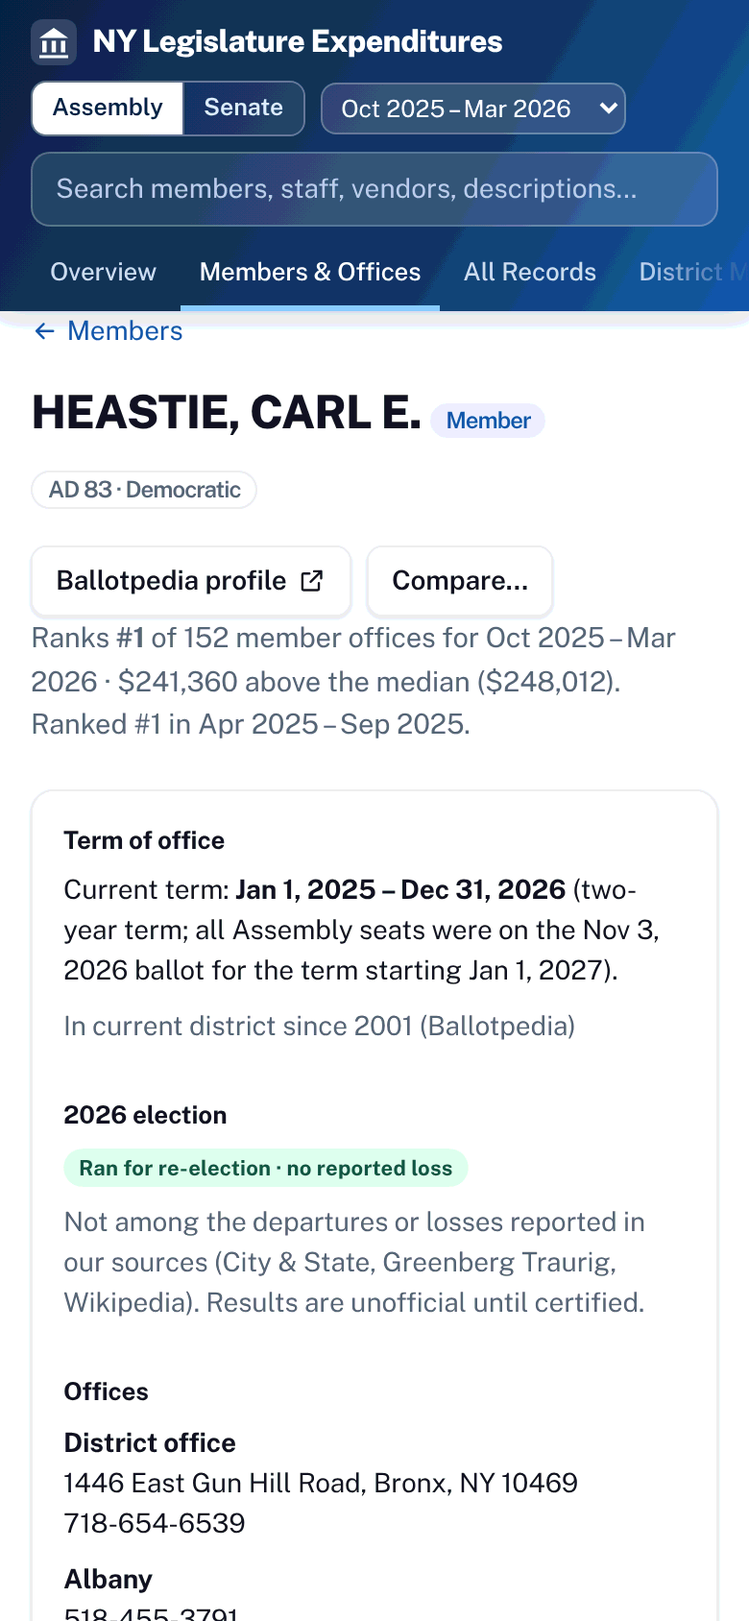
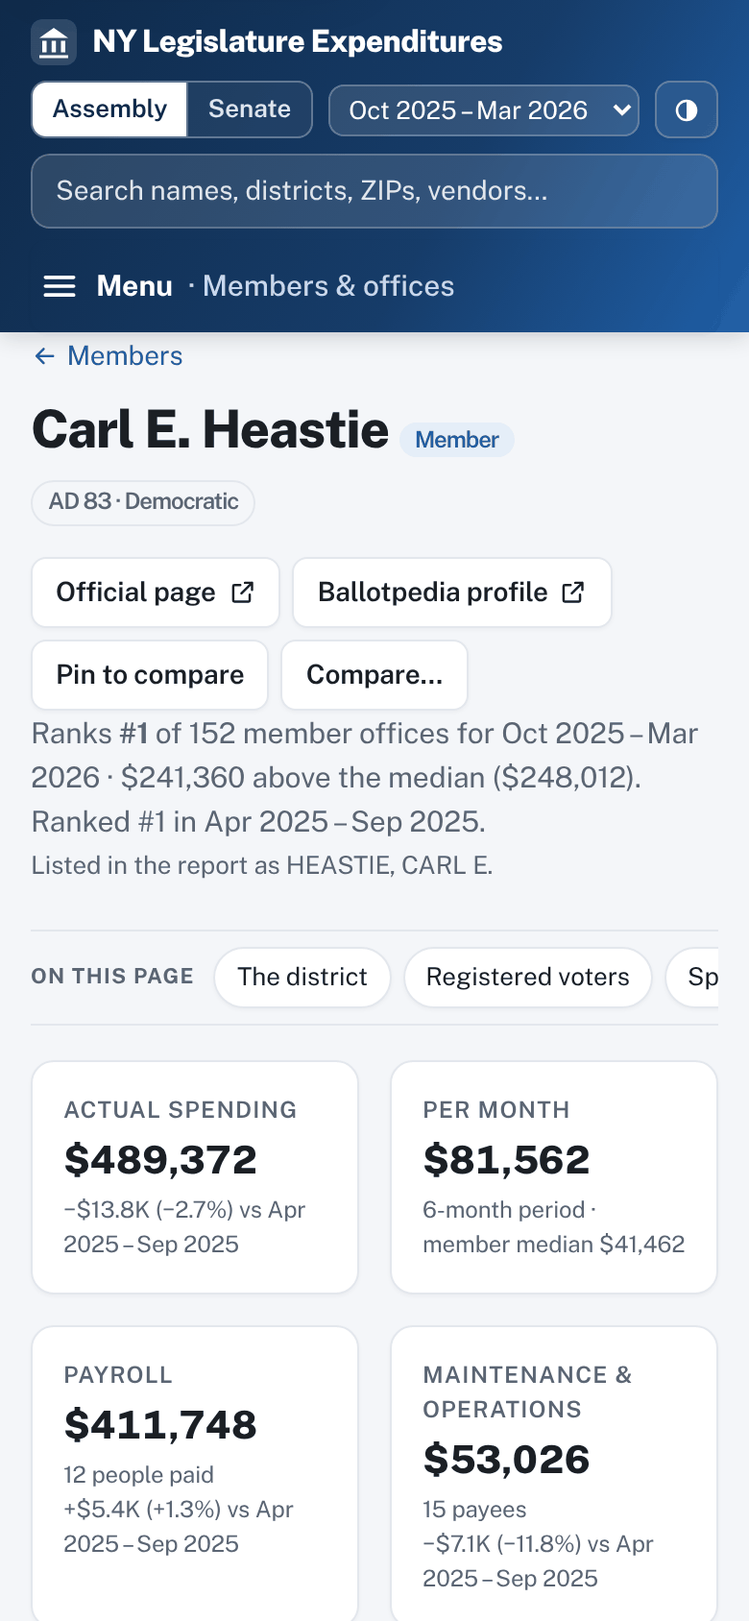
Design pass: honest charts, clearer tables, calmer layout, refreshed README visuals
- Fix bar lists that rendered empty (inline fill ignored its width)
- Make column-chart heights proportional; unrotated year labels
- Row headers styled as names; scorecard index moved next to the member
- Phones: members list shows name, total and change; one search box on overview
- Home: money lists first, then a 'Budgets, seats and the record over time' section
- Readable member names in lists and headings, report spelling kept under the heading
- Stat rows instead of cards inside cards; hairline card headers; one type scale
- Dark-mode button contrast; placeholder contrast; footer links on their own lines
- New banner and social preview in the site's typeface; fresh screenshots, scorecard added

Claude-Session: https://claude.ai/code/session_012BxnzWKB5kpecTXDzc2tZK

diff --git a/assets/styles.css b/assets/styles.css
@@ -205,9 +205,9 @@ svg.map path.district.dim { stroke: var(--border); }
 
 :root { --seq-0: #e3f1ee; --seq-1: #b2dacf; --seq-2: #72baa9; --seq-3: #33907d; --seq-4: #0d5c4f;
         --map-none: #c4c9cf; --div-0: #b35806; --div-1: #f1a340; --div-2: #ececec; --div-3: #998ec3; --div-4: #542788; }
-@media (prefers-color-scheme: dark) { :root:not([data-theme="light"]) { --seq-0: #1d3a35; --seq-1: #24584e; --seq-2: #2f7d6c; --seq-3: #4fae97; --seq-4: #8fdcc6;
+@media (prefers-color-scheme: dark) { :root:not([data-theme="light"]) { --seq-0: #2a4a44; --seq-1: #24584e; --seq-2: #2f7d6c; --seq-3: #4fae97; --seq-4: #8fdcc6;
           --map-none: #6b7380; --div-0: #e08a3c; --div-1: #9a6a3a; --div-2: #3a3f47; --div-3: #7c72b0; --div-4: #b3a6ec; } }
-:root[data-theme="dark"] { --seq-0: #1d3a35; --seq-1: #24584e; --seq-2: #2f7d6c; --seq-3: #4fae97; --seq-4: #8fdcc6;
+:root[data-theme="dark"] { --seq-0: #2a4a44; --seq-1: #24584e; --seq-2: #2f7d6c; --seq-3: #4fae97; --seq-4: #8fdcc6;
           --map-none: #6b7380; --div-0: #e08a3c; --div-1: #9a6a3a; --div-2: #3a3f47; --div-3: #7c72b0; --div-4: #b3a6ec; }
 
 /* District profile */
@@ -216,7 +216,7 @@ svg.map path.district.dim { stroke: var(--border); }
 .dnav { display: flex; gap: 8px; align-items: center; flex-wrap: wrap; margin-bottom: 16px; }
 .dnav select { width: auto; max-width: 260px; }
 .map-layout > div > .card + .card { margin-top: 16px; }
-svg.map path.district.focus { stroke: var(--text); stroke-width: 2.5; }
+svg.map path.district.focus { stroke: var(--text); stroke-width: 1.75; }
 svg.map .dlabel { font-size: 11px; fill: var(--text); text-anchor: middle; dominant-baseline: middle; pointer-events: none; paint-order: stroke; stroke: var(--surface); stroke-width: 3px; }
 svg.map .dlabel.focus { font-size: 15px; font-weight: 700; }
 svg.locator { max-width: 260px; margin: 0 auto; }
@@ -293,7 +293,6 @@ h2 { font-size: 16px; font-weight: 700; letter-spacing: -0.01em; }
 .chamber-switch button.on { background: #fff; color: var(--navy); }
 .chamber-switch button:hover:not(.on) { color: #fff; background: rgba(255,255,255,.08); }
 .site-header .global-search input { background: rgba(255,255,255,.12); border-color: rgba(255,255,255,.22); color: #fff; padding: 10px 14px; border-radius: 10px; }
-.site-header .global-search input::placeholder { color: #b9cbe3; }
 .site-header .global-search input:focus { background: rgba(255,255,255,.18); outline: 2px solid rgba(255,255,255,.6); }
 .tabs { gap: 2px; padding-bottom: 0; }
 .tabs a { color: #c7d7ee; border-bottom: 3px solid transparent; padding: 10px 12px; font-size: 14px; }
@@ -322,11 +321,10 @@ h2 { font-size: 16px; font-weight: 700; letter-spacing: -0.01em; }
 
 /* Bars */
 .bars .track { height: 8px; border-radius: 999px; }
-.bars .fill { background: linear-gradient(90deg, var(--bar), #4f93dc); border-radius: 999px; }
+.bars .fill { display: block; background: var(--bar); border-radius: 999px; }
 .bars .fill.alt { background: var(--bar-alt); }
 .bars li { padding: 6px 0; }
-.cols .colbar { background: linear-gradient(180deg, #4f93dc, var(--bar)); border-radius: 6px 6px 2px 2px; }
-.cols .col:hover .colbar { filter: brightness(1.08); }
+.cols .colbar { background: var(--bar); border-radius: 3px 3px 0 0; }
 
 /* Tables */
 .table-wrap { border-radius: var(--radius); box-shadow: var(--shadow); }
@@ -338,7 +336,7 @@ td, th { padding: 9px 12px; }
 /* Controls */
 input[type=search], input[type=number], select { border-radius: 8px; background: var(--surface); }
 button, .btn { border-radius: 8px; font-weight: 600; box-shadow: var(--shadow); }
-button.primary { background: linear-gradient(180deg, #2a6cbb, var(--navy-2)); }
+button.primary { background: var(--accent); }
 .chip { font-weight: 600; }
 .filters { background: var(--surface); border: 1px solid var(--border); border-radius: var(--radius); padding: 14px; box-shadow: var(--shadow); }
 .callout { border: 1px solid color-mix(in srgb, var(--accent) 30%, var(--border)); border-radius: var(--radius); padding: 12px 16px; }
@@ -426,9 +424,9 @@ td .chip + .echip, td .echip { margin-top: 3px; }
   .brand-title { font-size: 16px; gap: 8px; }
   .brand-mark { width: 24px; height: 24px; }
   .brand-controls { gap: 8px; margin-top: 8px; flex-wrap: nowrap; }
-  .chamber-switch button { padding: 4px 10px; font-size: 12.5px; }
+  .chamber-switch button { padding: 4px 10px; font-size: 13px; }
   .pp-label { position: absolute; width: 1px; height: 1px; overflow: hidden; clip: rect(0 0 0 0); }
-  .period-pick select { font-size: 12.5px; padding: 4px 6px; }
+  .period-pick select { font-size: 13px; padding: 4px 6px; }
   .global-search { flex-basis: 100%; max-width: none; }
   .site-header .global-search input { padding: 8px 12px; font-size: 14px; }
   .tabs a { padding: 8px 10px; font-size: 13px; }
@@ -445,7 +443,7 @@ td .chip + .echip, td .echip { margin-top: 3px; }
 
 .hero { display: grid; grid-template-columns: minmax(0, 1fr) auto; column-gap: 32px; align-items: center; }
 .hero-text > :last-child { margin-bottom: 0; }
-.hero-map { align-self: center; display: flex; flex-direction: column; align-items: center; gap: 6px; color: var(--muted); font-size: 12.5px; text-decoration: none; }
+.hero-map { align-self: center; display: flex; flex-direction: column; align-items: center; gap: 6px; color: var(--muted); font-size: 13px; text-decoration: none; }
 .hero-map > svg { width: 300px; height: auto; display: block; }
 .hero-map path { stroke: var(--surface); stroke-width: .4; }
 .hero-map:hover { color: var(--accent); text-decoration: none; }
@@ -453,7 +451,7 @@ td .chip + .echip, td .echip { margin-top: 3px; }
 @media (max-width: 900px) { .hero { grid-template-columns: 1fr; } .hero-map { display: none; } }
 
 /* State Board result table on member pages */
-.mini-results { width: 100%; border-collapse: collapse; margin: 6px 0 4px; font-size: 13.5px; }
+.mini-results { width: 100%; border-collapse: collapse; margin: 6px 0 4px; font-size: 14px; }
 .mini-results td { padding: 5px 6px; border-bottom: 1px solid var(--border); vertical-align: top; }
 .mini-results tr:first-child td { font-weight: 600; }
 .mini-results tr.inc td { background: color-mix(in srgb, var(--accent) 7%, transparent); }
@@ -522,10 +520,10 @@ kbd { font: 600 12px/1 ui-monospace, SFMono-Regular, Menlo, monospace; padding: 
 .budget table th[scope=row] { text-transform: none; letter-spacing: 0; font-size: 14px; font-weight: 500; color: var(--text); position: static; background: none; white-space: normal; }
 .budget tr.total th, .budget tr.total td { border-top: 2px solid var(--border); }
 .budget td.share { min-width: 160px; }
-.budget td.share { display: flex; align-items: center; gap: 8px; }
+.budget td.share > .share-in { display: flex; align-items: center; gap: 8px; }
 .budget td.share .track { flex: 1; height: 8px; border-radius: 4px; background: var(--accent-soft); overflow: hidden; display: block; }
 .budget td.share .fill { display: block; height: 100%; background: var(--accent); border-radius: 4px; }
-.budget td.share span:last-child { min-width: 38px; text-align: right; font-variant-numeric: tabular-nums; }
+.budget td.share .share-in > span:last-child { min-width: 38px; text-align: right; font-variant-numeric: tabular-nums; }
 @media (forced-colors: active) { .cf-stack span, .budget .fill { forced-color-adjust: none; } }
 details.yeartable { margin-top: 10px; }
 details.yeartable > summary { cursor: pointer; color: var(--accent); font-weight: 600; font-size: 14px; padding: 4px 0; }
@@ -537,7 +535,7 @@ abbr[title] { text-decoration: underline dotted; cursor: help; }
 .statheads .statchamber { background: var(--surface); border: 1px solid var(--border); border-radius: 14px; padding: 16px 18px; box-shadow: var(--shadow); }
 .statchamber h2 { margin: 0; font-size: 20px; }
 .statgrid { display: grid; grid-template-columns: repeat(2, minmax(0, 1fr)); gap: 10px 18px; margin: 12px 0 0; }
-.statgrid dt { font-size: 12.5px; color: var(--muted); }
+.statgrid dt { font-size: 13px; color: var(--muted); }
 .statgrid dd { margin: 2px 0 0; font-weight: 700; font-size: 17px; font-variant-numeric: tabular-nums; }
 .card.stat table th[scope=row] { position: static; background: none; color: var(--text); font-size: 14px; text-transform: none; letter-spacing: 0; }
 .boxes { margin: 6px 0 12px; }
@@ -609,7 +607,7 @@ table.scorecard td { white-space: nowrap; }
 
 /* Vendors that also donate */
 .card.vd.own { border-left-width: 1px; box-shadow: var(--shadow), inset 0 0 0 1px color-mix(in srgb, var(--pR) 25%, transparent); }
-.card.vd h3.mini { font-size: 13.5px; margin: 0 0 6px; }
+.card.vd h3.mini { font-size: 14px; margin: 0 0 6px; }
 .card.vd .plainlist li { margin: 4px 0; }
 
 /* ---------- Main menu ---------- */
@@ -662,7 +660,7 @@ table.scorecard td { white-space: nowrap; }
 @media (max-width: 640px) { .cf-table th[scope=row] { min-width: 150px; } .cf-table td.cf-bar { min-width: 90px; width: auto; } }
 /* Tap targets: at least 24px tall for links that stand alone (WCAG 2.2 target size). */
 a.back, .chamber-name, a.range-name, a.chip, .card-head > a, .site-footer a, .legend a, p > a.btn, a.btn { min-height: 24px; display: inline-flex; align-items: center; }
-.site-footer a { min-height: 32px; }
+.site-footer a { min-height: 32px; display: flex; width: fit-content; }
 a.back { padding: 4px 0; }
 /* Small charts: no text below 11px. */
 .cols.small .colval, .cols.small .collabel { font-size: 11px; }
@@ -722,13 +720,13 @@ a.back { padding: 4px 0; }
 .sheet-grid { display: grid; grid-template-columns: repeat(2, minmax(0, 1fr)); gap: 18px 28px; }
 .sheet-grid section.wide { grid-column: 1 / -1; }
 .sheet-grid h2 { font-size: 15px; text-transform: uppercase; letter-spacing: .05em; border-bottom: 1px solid var(--border); padding-bottom: 4px; margin: 0 0 6px; }
-.sheet-table { width: 100%; border-collapse: collapse; font-size: 13.5px; }
+.sheet-table { width: 100%; border-collapse: collapse; font-size: 14px; }
 .sheet-table th, .sheet-table td { padding: 4px 0; border-bottom: 1px dotted var(--border); text-align: left; vertical-align: top; font-weight: 400; background: none; position: static; text-transform: none; letter-spacing: 0; color: var(--text); white-space: normal; }
 .sheet-table th[scope=row] { color: var(--muted); padding-right: 12px; width: 46%; }
 .sheet-table.money th[scope=row] { width: auto; color: var(--text); }
 .sheet-table .num { text-align: right; font-variant-numeric: tabular-nums; }
 .sheet-table thead th { font-size: 11px; text-transform: uppercase; color: var(--muted); }
-.sheet-foot { margin-top: 18px; border-top: 1px solid var(--border); padding-top: 8px; font-size: 11.5px; }
+.sheet-foot { margin-top: 18px; border-top: 1px solid var(--border); padding-top: 8px; font-size: 12px; }
 @media (max-width: 700px) { .sheet-grid { grid-template-columns: 1fr; } }
 @media print {
   .site-header, .site-footer, .mainnav, .noprint, .skip-link { display: none !important; }
@@ -741,7 +739,7 @@ a.back { padding: 4px 0; }
 }
 .cols.hist { gap: 6px; height: 160px; }
 .cols.hist .col.cur .colbar { background: var(--accent); }
-.cols.hist .collabel { font-size: 10.5px; white-space: nowrap; transform: rotate(-35deg); transform-origin: top center; margin-top: 6px; height: 26px; }
+.cols.hist .collabel { font-size: 11px; white-space: nowrap; transform: rotate(-35deg); transform-origin: top center; margin-top: 6px; height: 26px; }
 @media (max-width: 640px) { .cols.hist .colval { display: none; } .cols.hist { gap: 3px; } }
 .bh-table { width: 100%; }
 .bh-bars { width: 38%; min-width: 120px; }
@@ -825,7 +823,7 @@ section.card { scroll-margin-top: 140px; }
   .locator-card svg { max-height: 150px; }
   section.card { padding-left: 14px; padding-right: 14px; }
   .card-head { gap: 4px 10px; }
-  .card-head .summary { font-size: 12.5px; }
+  .card-head .summary { font-size: 13px; }
   .grid.kpis.small { gap: 8px; }
   .lede { font-size: 15px; }
   h1 { font-size: clamp(24px, 7vw, 30px); line-height: 1.15; }
@@ -983,3 +981,103 @@ th.csort-th .th-sort:focus-visible { outline: 2px solid var(--accent); outline-o
   .sh.many .sh-col.keep:not(.cur):first-child .sh-val { display: none; }
 }
 @media (forced-colors: active) { .sh-bar span { forced-color-adjust: none; } }
+
+
+/* ---------- Polish pass: honest charts, calmer surfaces, one rhythm ---------- */
+/* Column charts: value, plot, label on separate grid rows, so each bar's % height is a share of
+   the same plot height and bars stay proportional to their values. */
+.cols .col { display: grid; grid-template-rows: auto minmax(0, 1fr) auto; justify-items: center; align-items: end; row-gap: 4px; }
+.cols .col > .colval { grid-row: 1; }
+.cols .col > .colbar { grid-row: 2; align-self: end; }
+.cols .col > .collabel { grid-row: 3; }
+.cols .col:hover .colbar, .cols .col[data-tip]:hover .colbar { filter: none; background: var(--accent); }
+.cols.hist { height: 184px; gap: 6px; }
+.cols.hist .collabel { transform: none; height: auto; margin-top: 2px; font-size: 11px; line-height: 1.2; text-align: center; white-space: normal; }
+.cols.hist + p.summary { margin-top: 12px; }
+@media (max-width: 640px) {
+  .cols.hist { height: 150px; }
+  .cols.hist .collabel { white-space: nowrap; }
+  .cols.hist .col:first-child .collabel { justify-self: start; text-align: left; }
+  .cols.hist .col:last-child .collabel { justify-self: end; text-align: right; }
+}
+.bars .track { background: color-mix(in srgb, var(--accent-soft) 75%, var(--surface)); }
+
+/* Row headers read as the row's name, not as a column header */
+tbody th[scope=row] { position: static; background: none; text-transform: none; letter-spacing: 0; font-size: 14px; font-weight: 600; color: var(--text); white-space: normal; }
+
+/* Calmer surfaces: hairline paper cards; depth kept for the hero only */
+:root { --shadow: 0 1px 2px rgba(16, 24, 40, .04); }
+.card-head h2 { font-size: 17px; }
+.card > .card-head:first-child { padding-bottom: 10px; border-bottom: 1px solid var(--border); margin-bottom: 14px; }
+.grid > .span-all { grid-column: 1 / -1; }
+.section-title { font-size: 21px; font-weight: 800; letter-spacing: -0.015em; margin: 44px 0 14px; padding-top: 12px; border-top: 3px solid var(--text); text-wrap: balance; }
+.grid + .card, .card + .grid, .card + .card { margin-top: 16px; }
+.section-title + .card { margin-top: 0; }
+
+/* KPI tiles inside a card become a stat row instead of cards in a card */
+.card .grid.kpis { gap: 12px 0; margin: 4px 0 14px; }
+.card .grid.kpis > .kpi { border: 0; border-radius: 0; box-shadow: none; background: none; padding: 2px 16px; border-left: 1px solid var(--border); }
+.card .grid.kpis > .kpi:first-child { border-left: 0; padding-left: 0; }
+
+/* District page: the map card fills its column instead of leaving a hole */
+.map-layout { align-items: stretch; }
+.map-layout > .card:first-child, .map-layout > div:first-child > .card:only-child { display: flex; flex-direction: column; }
+.map-layout > .card:first-child > svg, .map-layout > .card:first-child > .map-wrap { margin-block: auto; }
+
+/* Scorecard: the index leads */
+th.sc-index, td.sc-index { background: color-mix(in srgb, var(--accent-soft) 55%, var(--surface)); }
+.sc-idx { display: inline-flex; align-items: center; gap: 8px; }
+.sc-idx strong { font-size: 15px; min-width: 2ch; text-align: right; }
+.scbar.wide { width: 56px; height: 6px; }
+td.sc-index .summary { display: block; font-size: 11px; margin-top: 2px; }
+details.weights { margin-bottom: 16px; }
+
+/* Members & offices: keep the pin on the name's first line; phones see name, total, change */
+td.namecell { min-width: 180px; }
+td.namecell .pin-mini { float: right; margin: -3px -6px 0 6px; }
+@media (max-width: 640px) {
+  table.units-table th:nth-child(1), table.units-table td:not(.empty):nth-child(1),
+  table.units-table th:nth-child(3), table.units-table td:not(.empty):nth-child(3),
+  table.units-table th:nth-child(4), table.units-table td:not(.empty):nth-child(4),
+  table.units-table th:nth-child(5), table.units-table td:not(.empty):nth-child(5),
+  table.units-table th:nth-child(6), table.units-table td:not(.empty):nth-child(6),
+  table.units-table th:nth-child(7), table.units-table td:not(.empty):nth-child(7),
+  table.units-table th:nth-child(9), table.units-table td:not(.empty):nth-child(9),
+  table.units-table th:nth-child(10), table.units-table td:not(.empty):nth-child(10),
+  table.units-table th:nth-child(11), table.units-table td:not(.empty):nth-child(11) { display: none; }
+  td.namecell { min-width: 0; }
+}
+
+/* Phones: one search box on the overview, breathing room under the header, bigger link targets */
+@media (max-width: 640px) {
+  body[data-view="overview"] .site-header .global-search { display: none; }
+  main { padding-top: 22px; }
+  .plainlist a, .bars .name a, .chg-list a, td a, .movers a { padding-block: 4px; }
+}
+.sheet-tools { margin-top: 8px; }
+
+/* Browser surfaces carry the palette */
+::selection { background: color-mix(in srgb, var(--accent) 28%, transparent); }
+a { text-underline-offset: 2px; }
+.table-wrap { scrollbar-color: color-mix(in srgb, var(--muted) 45%, transparent) transparent; }
+
+.grid > .card, .grid > section.card { margin-top: 0; }
+.cols .col { grid-template-columns: minmax(0, 1fr); }
+.cols .col > .colbar { justify-self: center; }
+.cols .col > .colval, .cols .col > .collabel { max-width: none; }
+@media (max-width: 640px) {
+  .cols.hist .collabel { justify-self: center; width: max-content; }
+  table.units-table .pin-mini { display: none; }
+  table.units-table { font-size: 13px; }
+}
+.map-layout > .card, .map-layout > div > .card:first-child { margin-top: 0; }
+@media (max-width: 640px) { .cols.hist .col:nth-last-child(2) .collabel, .cols.hist .col:nth-last-child(3) .collabel, .cols.hist .col:nth-last-child(4) .collabel { visibility: hidden; } }
+.as-filed { display: block; font-size: 13px; margin-top: 2px; }
+:root { --btn-primary: #1f5fa8; }
+@media (prefers-color-scheme: dark) { :root:not([data-theme="light"]) { --btn-primary: #2a69b5; } }
+:root[data-theme="dark"] { --btn-primary: #2a69b5; }
+button.primary, .pin-tray .btn.primary { background: var(--btn-primary); border-color: var(--btn-primary); color: #fff; }
+.card p.summary, .card p.pfline, .card > ul.plainlist { max-width: 70ch; }
+p.summary, p.lede, p.pfline, .hero-sub { text-wrap: pretty; }
+.site-header .global-search input::placeholder { color: #eef3fa; opacity: .92; }
+.card .table-wrap { box-shadow: none; }

diff --git a/assets/app.js b/assets/app.js
@@ -1368,11 +1368,11 @@
       </details>
       <div class="table-wrap"><table class="scorecard">
         <caption class="sr-only">${esc(CH.name)} member office scorecard, sortable</caption>
-        <thead><tr>${sortHeader("Member", "name", state)}${sortHeader(CH.abbr, "district", state, "num")}${SC_MEASURES.map((m) => sortHeader(`<abbr title="${esc(m.help)}">${esc(m.label)}</abbr>`, m.key, state, "num")).join("")}${sortHeader(`<abbr title="Average of the percentile ranks the office has (at least three of five). 100 = best on every measure.">Index</abbr>`, "index", state, "num")}</tr></thead>
-        <tbody>${rows.map((r) => `<tr><td><a href="${unitHref(r.s.id)}">${esc(displayName(r.s))}</a> <span class="ptag p${r.party}">${esc(r.party)}</span></td><td class="num">${r.district ?? ""}</td>${SC_MEASURES.map((m) => cell(r, m)).join("")}<td class="num">${r.index != null ? `<strong>${r.index.toFixed(0)}</strong><span class="summary"> /${r.nMeasures}</span>` : `<span class="summary">—</span>`}</td></tr>`).join("")}</tbody></table></div>
+        <thead><tr>${sortHeader("Member", "name", state)}${sortHeader(CH.abbr, "district", state, "num")}${sortHeader(`<abbr title="Average of the percentile ranks the office has (at least three measures). 100 = best on every measure.">Index</abbr>`, "index", state, "num sc-index")}${SC_MEASURES.map((m) => sortHeader(`<abbr title="${esc(m.help)}">${esc(m.label)}</abbr>`, m.key, state, "num")).join("")}</tr></thead>
+        <tbody>${rows.map((r) => `<tr><td><a href="${unitHref(r.s.id)}">${esc(displayName(r.s))}</a> <span class="ptag p${r.party}">${esc(r.party)}</span></td><td class="num">${r.district ?? ""}</td><td class="num sc-index">${r.index != null ? `<span class="sc-idx"><strong>${r.index.toFixed(0)}</strong><span class="scbar wide" aria-hidden="true"><span style="width:${r.index.toFixed(0)}%"></span></span></span><span class="summary">${r.nMeasures} measures</span>` : `<span class="summary">—</span>`}</td>${SC_MEASURES.map((m) => cell(r, m)).join("")}</tr>`).join("")}</tbody></table></div>
       <section class="card"><div class="card-head"><h2>How to read this</h2></div>
         <ul class="plainlist">${SC_MEASURES.map((m) => `<li><strong>${esc(m.label)}.</strong> ${esc(m.help)}.</li>`).join("")}
-          <li><strong>Index.</strong> The average of an office's percentile ranks (0 = last, 100 = first) on the measures it has, shown only when it has at least three; "/n" is how many. Every measure counts equally; that weighting is a choice, so the columns matter more than the index.</li>
+          <li><strong>Index.</strong> The average of an office's percentile ranks (0 = last, 100 = first) on the measures it has, shown only when it has at least three; the number under it is how many. Every measure counts equally; that weighting is a choice, so the columns matter more than the index.</li>
           <li><strong>Why rank within party.</strong> The majority conference sets office budgets, and minority-party offices get smaller ones, so cost per month (and bills passed) mostly reflects party. Ranking within party compares like with like; switch to "whole chamber" to see the raw order.</li>
           <li><strong>Lawmaking.</strong> Bills signed into law and the share of bills that passed the member's own chamber come from the Senate's Open Legislation service, for the 2025–26 session. Majority-party members pass far more bills, which is another reason ranking within party is offered. Turn these off with the weights above if you only want the money measures.</li></ul>
         <p class="summary">None of these measures says whether an office served its district well; they're checkable facts about cost, staffing, elections and fundraising. Members who left mid-period or have little data are ranked on what exists. Sources: the ${esc(CH.name)} expenditure reports, the State Board of Elections unofficial count, and campaign finance filings (see About the Data).</p></section>`;
@@ -1547,8 +1547,8 @@
       <div class="table-wrap"><table>
         <caption class="sr-only">${esc(CH.name)} appropriations and reported spending, fiscal year 2025–26</caption>
         <thead><tr><th scope="col">Category</th><th scope="col" class="num">Appropriated 2025–26</th><th scope="col" class="num">Reported spent</th><th scope="col">Share used</th><th scope="col" class="num">Requested 2026–27</th></tr></thead>
-        <tbody>${rows.map(([g, l]) => `<tr><th scope="row">${l}</th><td class="num">${money0(appr[g])}</td><td class="num">${money0(spent[g])}</td><td class="share">${bar(appr[g], spent[g])}<span>${pct(appr[g], spent[g])}</span></td><td class="num">${money0(req[g])}</td></tr>`).join("")}
-          <tr class="total"><th scope="row">Total</th><td class="num"><strong>${money0(tot(appr))}</strong></td><td class="num"><strong>${money0(tot(spent))}</strong></td><td class="share">${bar(tot(appr), tot(spent))}<span>${pct(tot(appr), tot(spent))}</span></td><td class="num"><strong>${money0(tot(req))}</strong></td></tr></tbody>
+        <tbody>${rows.map(([g, l]) => `<tr><th scope="row">${l}</th><td class="num">${money0(appr[g])}</td><td class="num">${money0(spent[g])}</td><td class="share"><span class="share-in">${bar(appr[g], spent[g])}<span>${pct(appr[g], spent[g])}</span></span></td><td class="num">${money0(req[g])}</td></tr>`).join("")}
+          <tr class="total"><th scope="row">Total</th><td class="num"><strong>${money0(tot(appr))}</strong></td><td class="num"><strong>${money0(tot(spent))}</strong></td><td class="share"><span class="share-in">${bar(tot(appr), tot(spent))}<span>${pct(tot(appr), tot(spent))}</span></span></td><td class="num"><strong>${money0(tot(req))}</strong></td></tr></tbody>
       </table></div>
       <p class="summary">Appropriations from the <a href="${escUrl(BUDGET.url)}" target="_blank" rel="noopener">FY 2027 Executive Budget presentation for the Legislature</a> (NYS Division of the Budget). They include ${esc(mem[0].toLowerCase())}: ${money0(mem[2])}, exactly ${CH.id === "senate" ? 63 : 150} × $142,000. An appropriation is a spending ceiling, not a bill, and the reports don't line up with it exactly: payroll is paid in arrears (April checks pay for March work), bills from one year are often paid in the next, and unspent appropriations from earlier years can be reappropriated, so a line can show more than 100%. ${esc(BUDGET.separateNote)}${b.related ? " " + b.related.map((r) => typeof r[1] === "number" ? `${esc(r[0])} has its own appropriation (${money0(r[1])} in 2025–26).` : `The ${esc(r[0])} is ${esc(r[1])}.`).join(" ") : ""}</p>
     </section>`;
@@ -1673,7 +1673,7 @@
     const byMonth = sumBy(records.filter((r) => r.month && !r.allocated), (r) => r.month).sort((a, b) => a.key.localeCompare(b.key));
     const maxMonth = Math.max(...byMonth.map((m) => m.total)) || 1;
 
-    const topMembers = DB.members.slice(0, 10).map((s) => ({ label: s.name, value: s.actual, href: `#/unit/${s.id}` }));
+    const topMembers = DB.members.slice(0, 10).map((s) => ({ label: displayName(s), value: s.actual, href: `#/unit/${s.id}` }));
     const topOffices = unitStats.filter((s) => s.kind === "office").sort((a, b) => b.actual - a.actual).slice(0, 10)
       .map((s) => ({ label: s.name, value: s.actual, href: `#/unit/${s.id}` }));
     const mo = records.filter((r) => types[r.t].group === "mo");
@@ -1692,7 +1692,7 @@
         <h1>The ${esc(CH.name)} spent <span class="hero-num">${compact(meta.totalActual)}</span> in ${esc(periodName(DB))}</h1>
         <p class="hero-sub">That's about <strong>${compact(meta.totalActual / DB.periodMonths)} a month</strong> on payroll, operations and travel${chg ? `, <span class="${chg.diff >= 0 ? "up" : "down"}">${chg.diff >= 0 ? I.up : I.down}${Math.abs(chg.pct).toFixed(1)}% ${chg.diff >= 0 ? "more" : "less"}</span> than ${esc(periodName(PREV))}` : ""}. Every one of the report's ${int.format(meta.rowCount)} lines is here, across ${meta.members} member offices and ${meta.offices} central offices and committees.</p>
         <p class="hero-find"><a href="${buildHash("find", {})}">Find your own Assembly member and Senator by address ${I.r}</a></p>
-        <form class="hero-search" id="heroSearch" role="search" aria-label="Search this report"><input type="search" id="heroSearchInput" placeholder="Name, district, ZIP or vendor" aria-label="Search the site"><button class="primary" type="submit">Search</button></form>
+        <form class="hero-search" id="heroSearch" role="search" aria-label="Search this report"><input type="search" id="heroSearchInput" placeholder="Name, district or ZIP" aria-label="Search the site"><button class="primary" type="submit">Search</button></form>
         </div>
         ${heroMap()}
       </section>
@@ -1704,11 +1704,6 @@
       </div>
       ${chambersCard()}
       ${chamberHistoryCard()}
-      ${budgetHistoryCard()}
-      ${makeupCard()}
-      ${periodsCard()}
-      ${budgetCard()}
-      ${CH.id === "senate" ? (() => { const pr = payroll(); return pr ? payrollYearsCard(pr).replace("<h2>Senate payroll by year</h2>", `<h2><a href="${buildHash("payroll", {})}">Senate payroll by year</a></h2>`) : ""; })() : ""}
       <div class="grid two">
         <section class="card"><div class="card-head"><h2>By expense type</h2><span class="summary">grey = allocated</span></div>${bars(typeBars)}</section>
         <section class="card"><div class="card-head"><h2>Vouchered spending by month</h2><span class="summary">M&amp;O + travel</span></div>
@@ -1727,7 +1722,13 @@
         <section class="card"><div class="card-head"><h2>What M&amp;O money bought</h2></div>${bars(topDescs)}</section>
         ${travelCard()}
         ${PREV ? moversCard() : ""}
-      </div>`;
+      </div>
+      <h2 class="section-title">Budgets, seats and the record over time</h2>
+      ${budgetHistoryCard()}
+      ${budgetCard()}
+      ${makeupCard()}
+      ${CH.id === "senate" ? (() => { const pr = payroll(); return pr ? payrollYearsCard(pr).replace("<h2>Senate payroll by year</h2>", `<h2><a href="${buildHash("payroll", {})}">Senate payroll by year</a></h2>`) : ""; })() : ""}
+      ${periodsCard()}`;
   }
 
   // IRS business mileage rates (the State reimburses personal-car mileage at the IRS rate).
@@ -1931,8 +1932,8 @@
       .map((x) => ({ ...x, d: x.s.actual - x.p.actual }));
     const up = rows.slice().sort((a, b) => b.d - a.d).slice(0, 5);
     const down = rows.slice().sort((a, b) => a.d - b.d).slice(0, 5);
-    const li = (x) => `<li><span class="name"><a href="${unitHref(x.s.id)}">${esc(x.s.name)}</a></span><span class="amt">${x.d >= 0 ? "+" : "−"}${money0(Math.abs(x.d))}</span></li>`;
-    return `<section class="card"><div class="card-head"><h2>Biggest changes vs ${esc(periodName(PREV))}</h2><span class="summary">member offices</span></div>
+    const li = (x) => `<li><span class="name"><a href="${unitHref(x.s.id)}">${esc(x.s.kind === "member" ? displayName(x.s) : titleCase(x.s.name))}</a></span><span class="amt">${x.d >= 0 ? "+" : "−"}${money0(Math.abs(x.d))}</span></li>`;
+    return `<section class="card span-all"><div class="card-head"><h2>Biggest changes vs ${esc(periodName(PREV))}</h2><span class="summary">member offices</span></div>
       <div class="grid two movers"><div><h3>Increased most</h3><ul class="bars plain">${up.map(li).join("")}</ul></div>
       <div><h3>Decreased most</h3><ul class="bars plain">${down.map(li).join("")}</ul></div></div></section>`;
   }
@@ -1972,7 +1973,7 @@
       </div>
       <div class="toolbar"><span class="summary"><strong>${int.format(list.length)}</strong> shown · actual spending <strong>${money0(total)}</strong> · <strong>${money0(total / DB.periodMonths)}</strong> a month · * active part of the period, per month uses months active</span>
         <button id="uexport">Export CSV</button></div>
-      <div class="table-wrap"><table>
+      <div class="table-wrap"><table class="units-table">
         <thead><tr>
           <th scope="col">#</th>
           ${sortHeader("Name", "name", state)}
@@ -2044,9 +2045,9 @@
     const statusName = (c) => meta.statusLabels[c] || c;
     return `
       <div class="crumbs"><a href="${buildHash("units", { kind: s.kind })}">${I.l} ${s.kind === "member" ? "Members" : "Offices"}</a></div>
-      <div class="title-row"><h1>${esc(s.name)} ${kindChip(s.kind)}${districtChip(s)}</h1>
+      <div class="title-row"><h1>${esc(s.kind === "member" ? displayName(s) : s.name)} ${kindChip(s.kind)}${districtChip(s)}</h1>
         <div class="title-actions">${officialLink(s)}${ballotpediaLink(s)}${pinBtn(s.name)}<a class="btn" href="${buildHash("compare", { u: s.kind === "member" ? [s.name, DB.members[Math.floor(DB.members.length / 2)].name].filter((v, i, a) => a.indexOf(v) === i).join("|") : s.name })}">Compare…</a></div></div>
-      <p class="lede">${rankNote || "Central office, committee, or task force."}</p>
+      <p class="lede">${rankNote || "Central office, committee, or task force."} ${s.kind === "member" ? `<span class="as-filed">Listed in the report as ${esc(s.name)}${/\.$/.test(s.name) ? "" : "."}</span>` : ""}</p>
       <div class="grid kpis">
         ${kpi("Actual spending", money0(s.actual), ps ? changeText(change(s.actual, ps.actual)) : (PREV ? "Not in prior period" : ""))}
         ${kpi("Per month", money0(s.perMonth), s.partial ? `active ≈${s.months} of ${DB.periodMonths} months` : `${DB.periodMonths}-month period${s.kind === "member" ? ` · member median ${money0(DB.memberMonthlyMedian)}` : ""}`)}
@@ -2547,7 +2548,7 @@
       const vals = picked.map(fn);
       const nums = vals.filter((v) => typeof v === "number");
       const hi = nums.length > 1 ? (best === "min" ? Math.min(...nums) : Math.max(...nums)) : null;
-      return `<tr><th scope="row">${label}</th>${vals.map((v) => `<td class="num${v === hi ? " hi" : ""}">${v == null ? "—" : fmt(v)}</td>`).join("")}</tr>`;
+      return `<tr><th scope="row">${label}</th>${vals.map((v) => `<td class="num${v != null && v === hi ? " hi" : ""}">${v == null ? "—" : fmt(v)}</td>`).join("")}</tr>`;
     };
     const ps = (s) => prevUnit(s);
     const typeVal = (code) => (s) => s.byType[code] || 0;
@@ -3501,6 +3502,7 @@
     wireNav();
     if (!CHAMBERS.length) return;
     const { view, arg, params } = parseHash();
+    document.body.dataset.view = view || "overview";
     const before = DB && CH ? CH.id + DB.id : "";
     selectChamber(params.c || (view === "nascar" && CHAMBERS.some((c) => c.id === "senate") ? "senate" : CHAMBERS[0].id));
     selectPeriod(params.p || PERIODS[0].id);

diff --git a/README.md b/README.md
@@ -1,5 +1,5 @@
 <p align="center">
-  <img src="docs/banner.png" alt="NY Legislature Expenditures — every line of the Assembly's and Senate's spending reports, searchable and mapped by district" width="100%">
+  <img src="docs/banner.png" alt="Where New York's Legislature spends: every line of the Assembly's and Senate's spending reports, searchable and mapped by district" width="100%">
 </p>
 
 <p align="center">
@@ -57,7 +57,7 @@ The New York State Assembly and Senate each publish their spending twice a year:
   </tr>
   <tr>
     <td width="50%"><img src="docs/screenshots/salaries.png" alt="Salaries"><br><sub><b>Salaries</b> — every person's regular pay normalized to a yearly rate, with pay ranges by title.</sub></td>
-    <td width="50%"></td>
+    <td width="50%"><img src="docs/screenshots/scorecard.png" alt="Scorecard"><br><sub><b>Scorecard</b> — every member office ranked on cost, staff retention, election margin and lawmaking, within party or chamber, with sliders to weigh the measures yourself.</sub></td>
   </tr>
 </table>
 
